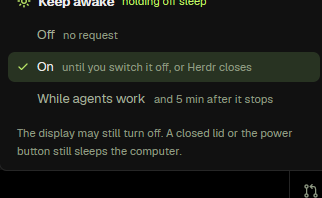
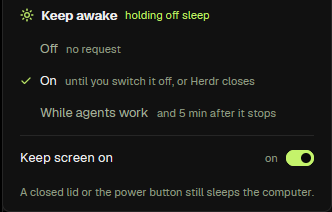
herdr: document the Keep screen on switch
mods.md, README, the layout's recipe and the mod's RECIPE describe the
switch (on by default), the immediate helper restart its write causes, and
the shared display value; the preview is the popup with it on, and the
changelog entry follows.

diff --git a/herdr/mods/keep-awake/RECIPE.md b/herdr/mods/keep-awake/RECIPE.md
@@ -10,10 +10,10 @@ about the power plan, the registry or the display is changed, and no administrat
 - **In the tab bar**, beside `Panel` and `Jig`, a 26 px sun. Off it is dim; while the request is held it takes the accent
   colour and a selected background. Its tooltip names the mode and whether the computer will sleep, and says a right click
   opens the modes.
-- **The popup** (330×196, at the pointer): `Keep awake` and `holding off sleep` or `not holding`, then three rows — `Off`,
+- **The popup** (330×232, at the pointer): `Keep awake` and `holding off sleep` or `not holding`, then three rows — `Off`,
   `On` ("until you switch it off, or Herdr closes"), `While agents work` ("and 5 min after it stops") — the current one
-  ticked, and a line saying the display may still turn off and that a closed lid or the power button still sleeps the
-  computer.
+  ticked; a `Keep screen on` row with a 28×16 switch and `on`/`off` beside it; and a line saying a closed lid or the power
+  button still sleeps the computer.
 - Nothing else: the worker has no panel of its own. In the layout it sits in a 0 px block of the sidebar, unseen.
 
 ## How it behaves
@@ -24,8 +24,10 @@ about the power plan, the registry or the display is changed, and no administrat
 - **Off** holds no request. **On** holds it until the mode changes or Herdr exits. **While agents work** holds it while any
   agent in any space, tab or machine is `working` or `blocked`, and for `idleMinutes` (5 by default) after the last one
   stops, so a status flicker or a quick hand-over never stops and starts the helper.
-- **The display may still turn off**: only the system is kept awake, unless `display: true`, which also keeps the screen on.
-  A closed lid or the power button still sleeps the computer.
+- **The screen is kept on too** by default (`display: true`). The popup's switch writes `config.json` and, when the mode is
+  holding, restarts the helper at once with the new flag (stop, then start: never two), so the screen follows without waiting
+  for the helper to die. The sun's tooltip says whether the screen is kept on. A closed lid or the power button still sleeps
+  the computer.
 - **One helper only.** Its PID lives in `shared("keep-awake.helper")`; a second copy, a reload or a restart reuses it while
   it is alive and its command line still names this mod's script, and starts one otherwise. A PID that now belongs to
   another process is forgotten, never killed.
@@ -43,7 +45,8 @@ about the power plan, the registry or the display is changed, and no administrat
   and runs `exec` on Herdr's own computer (never on a space's) for the helper, `appPidCommand`, `aliveCommand`,
   `commandLineCommand` and `stopCommand`.
 - `lib.js`: the pure parts — `modeOf`, `toggleMode`, `nextMode`, `tooltip`, `anyBusy`, `decide` (the idle timer),
-  `parseConfig`, `parsePid`, `isHelper`, `helperAction`, and the commands for each platform:
+  `parseConfig`, `setDisplay` (the switch's write, keeping the file's other fields), `parsePid`, `isHelper`, `helperAction`,
+  and the commands for each platform:
   - **Windows:** `powershell -NoProfile -Command "$p = Start-Process -FilePath 'powershell.exe' -ArgumentList … -WindowStyle
     Hidden -PassThru; $p.Id"`, which returns at once and prints the hidden process's PID. It runs `keep-awake.ps1`, which
     calls `SetThreadExecutionState(ES_CONTINUOUS | ES_SYSTEM_REQUIRED [| ES_DISPLAY_REQUIRED])` and repeats it every 20 s.
@@ -52,7 +55,8 @@ about the power plan, the registry or the display is changed, and no administrat
 - `keep-awake.ps1`: the Windows helper. It exits on the stop file (`stop`), when the owner PID is gone, or when killed, and
   clears the request on the way out.
 - `keep-awake.svg`: the sun, a one-colour glyph drawn in the text colour.
-- `config.json`: `{ "idleMinutes": 5, "display": false }`, read at start and every minute.
+- `config.json`: `{ "idleMinutes": 5, "display": true }`, read at start and every minute (a file edit restarts a running
+  helper too); the popup writes it back.
 - **herdr functions used:** `agents`, `appHome`, `closeOverlay`, `exec`, `nextCommand`, `notify`, `props`, `readTextFile`,
   `setShared`, `shared`, `theme`, `window`, `writeTextFile`. The tab bar (`jig-tabs`) only writes
   `shared("keep-awake.mode")` and opens the popup; every layout reaches the same worker through that shared state.
@@ -70,6 +74,8 @@ about the power plan, the registry or the display is changed, and no administrat
   process would ever end.
 - **The stop file is `keep-awake.stop` in the app folder**, next to `shared.json`; a helper restarted by hand must use the
   same script path or the mod will not recognise it as its own.
+- **The switch writes inside the app folder** (`mods/keep-awake/config.json`) with `writeTextFile`; a read-only folder or a
+  file changed under it shows "Could not write config.json" and leaves the setting as it was.
 - **The tab bar is `jig-tabs`**, which this repository owns; the popup is `openOverlay({ mod: "keep-awake", kind: "popup",
   props: { menu: true } })`.
 

diff --git a/herdr/docs/mods.md b/herdr/docs/mods.md
@@ -80,10 +80,11 @@ plan, the registry or the display is changed, and it needs no administrator righ
 
 - **Off** (the default), **On** (until switched off or Herdr closes), and **While agents work** (on while any agent in any
   space, tab or machine is `working` or `blocked`, and `idleMinutes` after the last one stops). A click on the sun turns
-  Off ↔ On; a right-click opens a popup with the three modes, what is held now, and what it cannot do. `Ctrl+Shift+Alt+K`
-  cycles them.
-- **The display may still turn off**: only the system is kept awake, unless `display: true` in `config.json`, which also
-  keeps the screen on. A closed lid or the power button still sleeps the computer; the tooltip and the popup say so.
+  Off ↔ On; a right-click opens a popup with the three modes, `Keep screen on` (on by default), what is held now, and what it
+  cannot do. `Ctrl+Shift+Alt+K` cycles the modes; the sun's tooltip says whether the screen is kept on too.
+- **The screen is kept on** by default (`display: true`), not only the system; the popup's switch writes `config.json` and
+  restarts a running helper at once with the new flag, so the screen follows without waiting for it to die. A closed lid or
+  the power button still sleeps the computer; the popup says so.
 - **One helper, never two.** Its PID is in `shared("keep-awake.helper")`; a second copy (or a restart) reuses it while it
   is alive and still ours, and starts a new one otherwise. A PID that now belongs to another process is forgotten, never
   killed. Restarting Herdr starts it again if the mode is On or agents are busy (the mode lives in `shared.json`).
@@ -96,13 +97,13 @@ plan, the registry or the display is changed, and it needs no administrator righ
   - **macOS:** `caffeinate -i [-d] -w <herdr pid>`, in the background.
   - **Linux:** `systemd-inhibit --what=sleep[:idle] --why="Herdr keep awake" --mode=block sleep infinity`, in the
     background and killed on stop.
-- **Shared state:** `shared("keep-awake.mode")` (`"off"`, `"on"` or `"agents"`), `shared("keep-awake.active")` (whether the
-  request is held now) and `shared("keep-awake.helper")` (`{ pid, owner, at }`), so the tab bar, other layouts and the key
-  all drive the same worker.
+- **Shared state:** `shared("keep-awake.mode")` (`"off"`, `"on"` or `"agents"`), `shared("keep-awake.display")` (the screen
+  setting for this session), `shared("keep-awake.active")` (whether the request is held now) and
+  `shared("keep-awake.helper")` (`{ pid, owner, at }`), so the tab bar, other layouts and the key all drive the same worker.
 - **Props:** none for the worker; `{ menu: true }` draws the mode popup. **Files:** `main.js`, `lib.js` (the mode decision
   and idle timer, the commands for each platform, the PID bookkeeping and `config.json`), `keep-awake.ps1`,
   `keep-awake.svg`, `config.json`. **Settings:** `idleMinutes` (5 by default; 0 stops as soon as the last agent does) and
-  `display` (false).
+  `display` (true by default: keep the screen on too).
 
 ## file-view: a file in a tab
 

diff --git a/herdr/README.md b/herdr/README.md
@@ -47,7 +47,7 @@ The repository panels work the same way: a `sh` script with `git` (or `gh`) on t
 | Review tab (`repo-review`) | One repository's changed files and a diff, or its whole branch against its base (read-only); stage, unstage, discard; a draggable file list; a Diff, File or Patch view (the last two select by dragging); copy lines, file or path | `git status` and `git diff HEAD` (branch: `git diff <merge base>`) every 5 s |
 | File tab (`file-view`) | One file, read-only; Markdown rendered, `Source` for its text | `readTextFile` with `on`, every 5 s |
 | Tab bar (`jig-tabs`) | Tabs, `+`, then `Panel` (shows or hides the side panel), `Jig` (shows Work) and a sun for Keep awake, lit while the computer is held awake | Herdr's `layout.show`, `layout.hide`, `tab.*`; the keep-awake state |
-| Keep awake (`keep-awake`) | A sun in the tab bar: Off, On until switched off or Herdr closes, or While agents work (and 5 minutes after the last one) | A hidden PowerShell (`SetThreadExecutionState`), `caffeinate` or `systemd-inhibit` on this computer, only while it is wanted |
+| Keep awake (`keep-awake`) | A sun in the tab bar: Off, On until switched off or Herdr closes, or While agents work (and 5 minutes after the last one), with a Keep screen on switch | A hidden PowerShell (`SetThreadExecutionState`), `caffeinate` or `systemd-inhibit` on this computer, only while it is wanted |
 | Icon bar (`jig-activity`) | A button per panel, Jig group on top; counts on Changes, PR & CI, Worktrees | `layout.select`; counts from `shared("badge.<mod>")` |
 | Nothing (`jig-theme-sync`) | The window takes the colours of Pi's palette, black when dark | Reads Pi's `settings.json` every 5 s; `app.theme` |
 
@@ -94,7 +94,7 @@ Three files in the Herdr folder. Every field is optional, and later installs nev
 | `mods/jig-theme-sync/config.json` `agentDir` | `$PI_CODING_AGENT_DIR`, else `~/.pi/agent` | Pi's agent folder there |
 | `mods/jig-theme-sync/config.json` `themeFolders` | `[]` | More folders to look for a palette in |
 | `mods/keep-awake/config.json` `idleMinutes` | `5` | How long While agents work stays on after the last agent stops |
-| `mods/keep-awake/config.json` `display` | `false` | Keep the screen on too, not only the system |
+| `mods/keep-awake/config.json` `display` | `true` | Keep the screen on too, not only the system; the popup has a switch |
 | `mods/repo-changes/config.json` `newBranchPrefix` | `"feature/"` | What a new branch's name starts with |
 | `mods/repo-changes/config.json` `baseBranch` | origin's HEAD branch, else `main` | The branch a new branch starts from |
 

diff --git a/herdr/RECIPE.md b/herdr/RECIPE.md
@@ -74,8 +74,8 @@ Left to right, top to bottom, in a window with no system title bar (`titlebar: n
   panel when it already shows it. The panel's state is remembered per space.
 - **Keep awake.** The sun holds the computer awake on its idle timer: Off, On (until switched off or Herdr closes), or While
   agents work (while any agent anywhere is working or blocked, and `idleMinutes` after the last one). A click turns Off ↔
-  On; a right click opens a 330×196 popup with the three modes, whether the request is held and that a lid or the power
-  button still sleeps the computer. `Ctrl+Shift+Alt+K` cycles the modes. The helper is a hidden PowerShell
+  On; a right click opens a 330×232 popup with the three modes, a `Keep screen on` switch (on by default; writing it restarts
+  the helper at once), whether the request is held and that a lid or the power button still sleeps the computer. `Ctrl+Shift+Alt+K` cycles the modes. The helper is a hidden PowerShell
   (`SetThreadExecutionState`) on Windows, `caffeinate -i [-d] -w <herdr pid>` on macOS, or `systemd-inhibit --what=sleep[:idle]
   --mode=block sleep infinity` on Linux, started on Herdr's own computer and stopped when it is no longer wanted or Herdr
   exits; its request ends with its process.

diff --git a/CHANGELOG.md b/CHANGELOG.md
@@ -75,8 +75,9 @@ What changed in Jig, newest first. Pi shows the entries newer than the version y
 - A **Keep awake** sun in the tab bar holds this computer awake: off, on until it is switched off or Herdr closes, or while
   any agent is working or blocked (and `idleMinutes`, 5 by default, after the last one). A hidden PowerShell
   (`SetThreadExecutionState`), `caffeinate` or `systemd-inhibit` holds the request, one at a time, on the computer Herdr
-  runs on; it ends with Herdr and changes no setting. `mods/keep-awake/config.json` sets `idleMinutes` and `display` (keep
-  the screen on too), and `Ctrl+Shift+Alt+K` cycles the modes.
+  runs on; it ends with Herdr and changes no setting. A `Keep screen on` switch in its popup (on by default) writes
+  `mods/keep-awake/config.json` (`display`), which also carries `idleMinutes`, and restarts the helper at once; the sun's
+  tooltip says whether the screen is kept on. `Ctrl+Shift+Alt+K` cycles the modes.
 ## [0.4.3] - 2026-11-06
 
 ### Added
